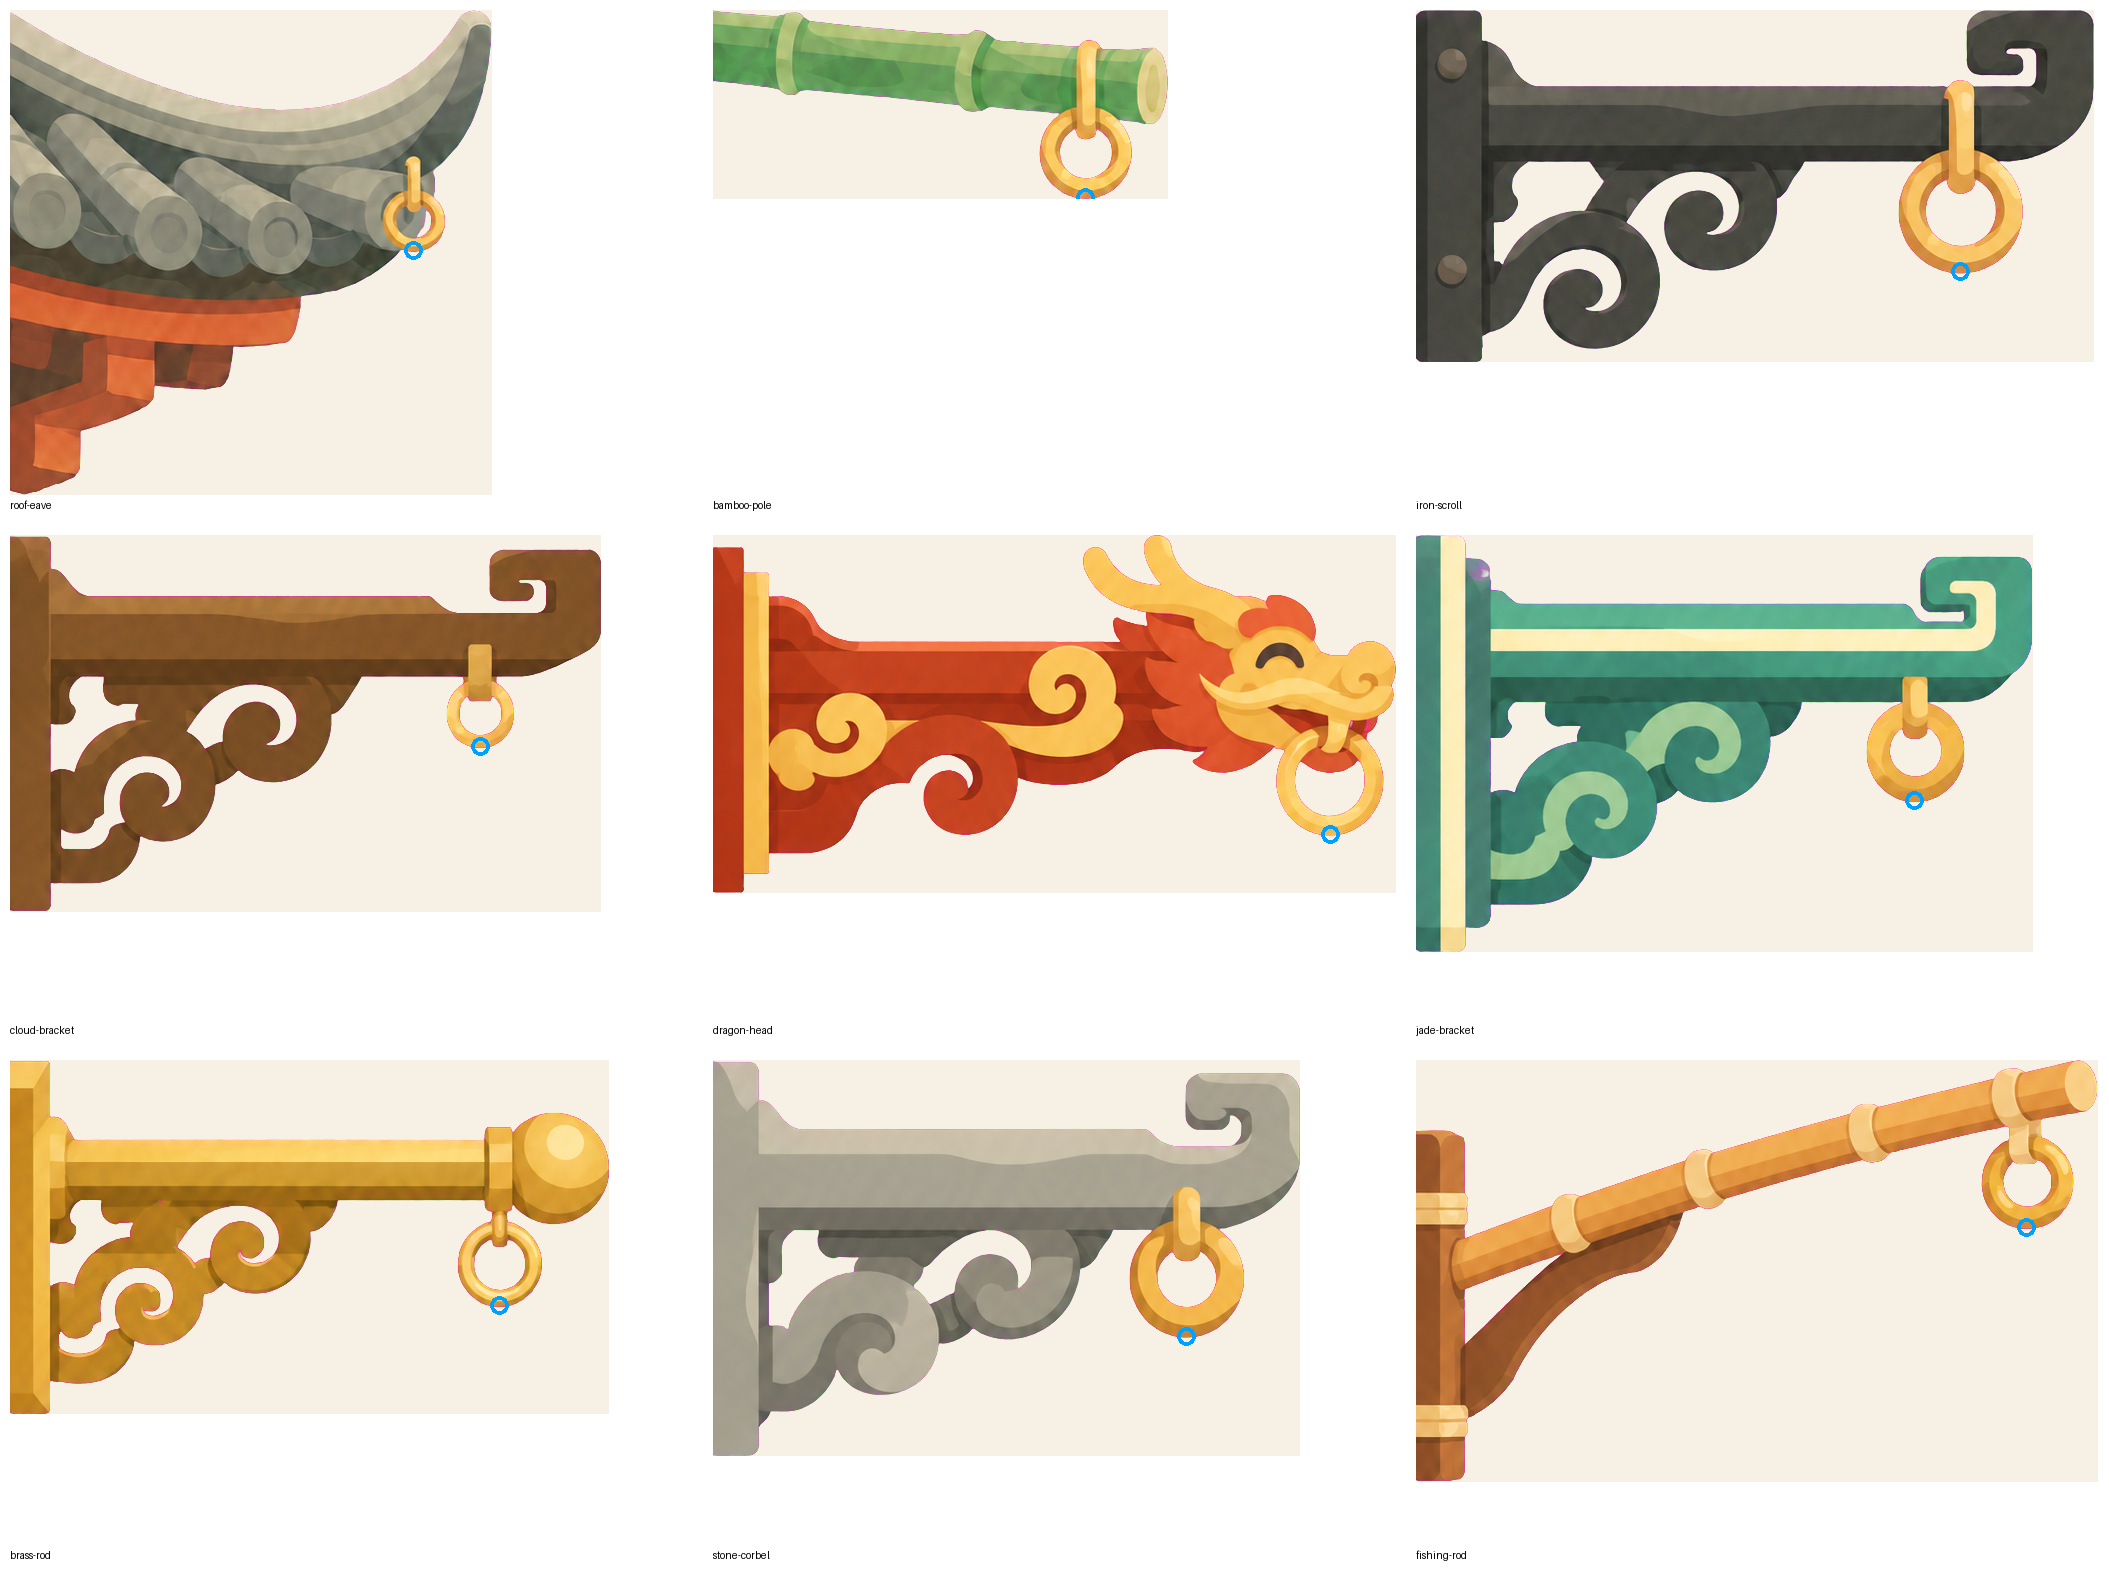
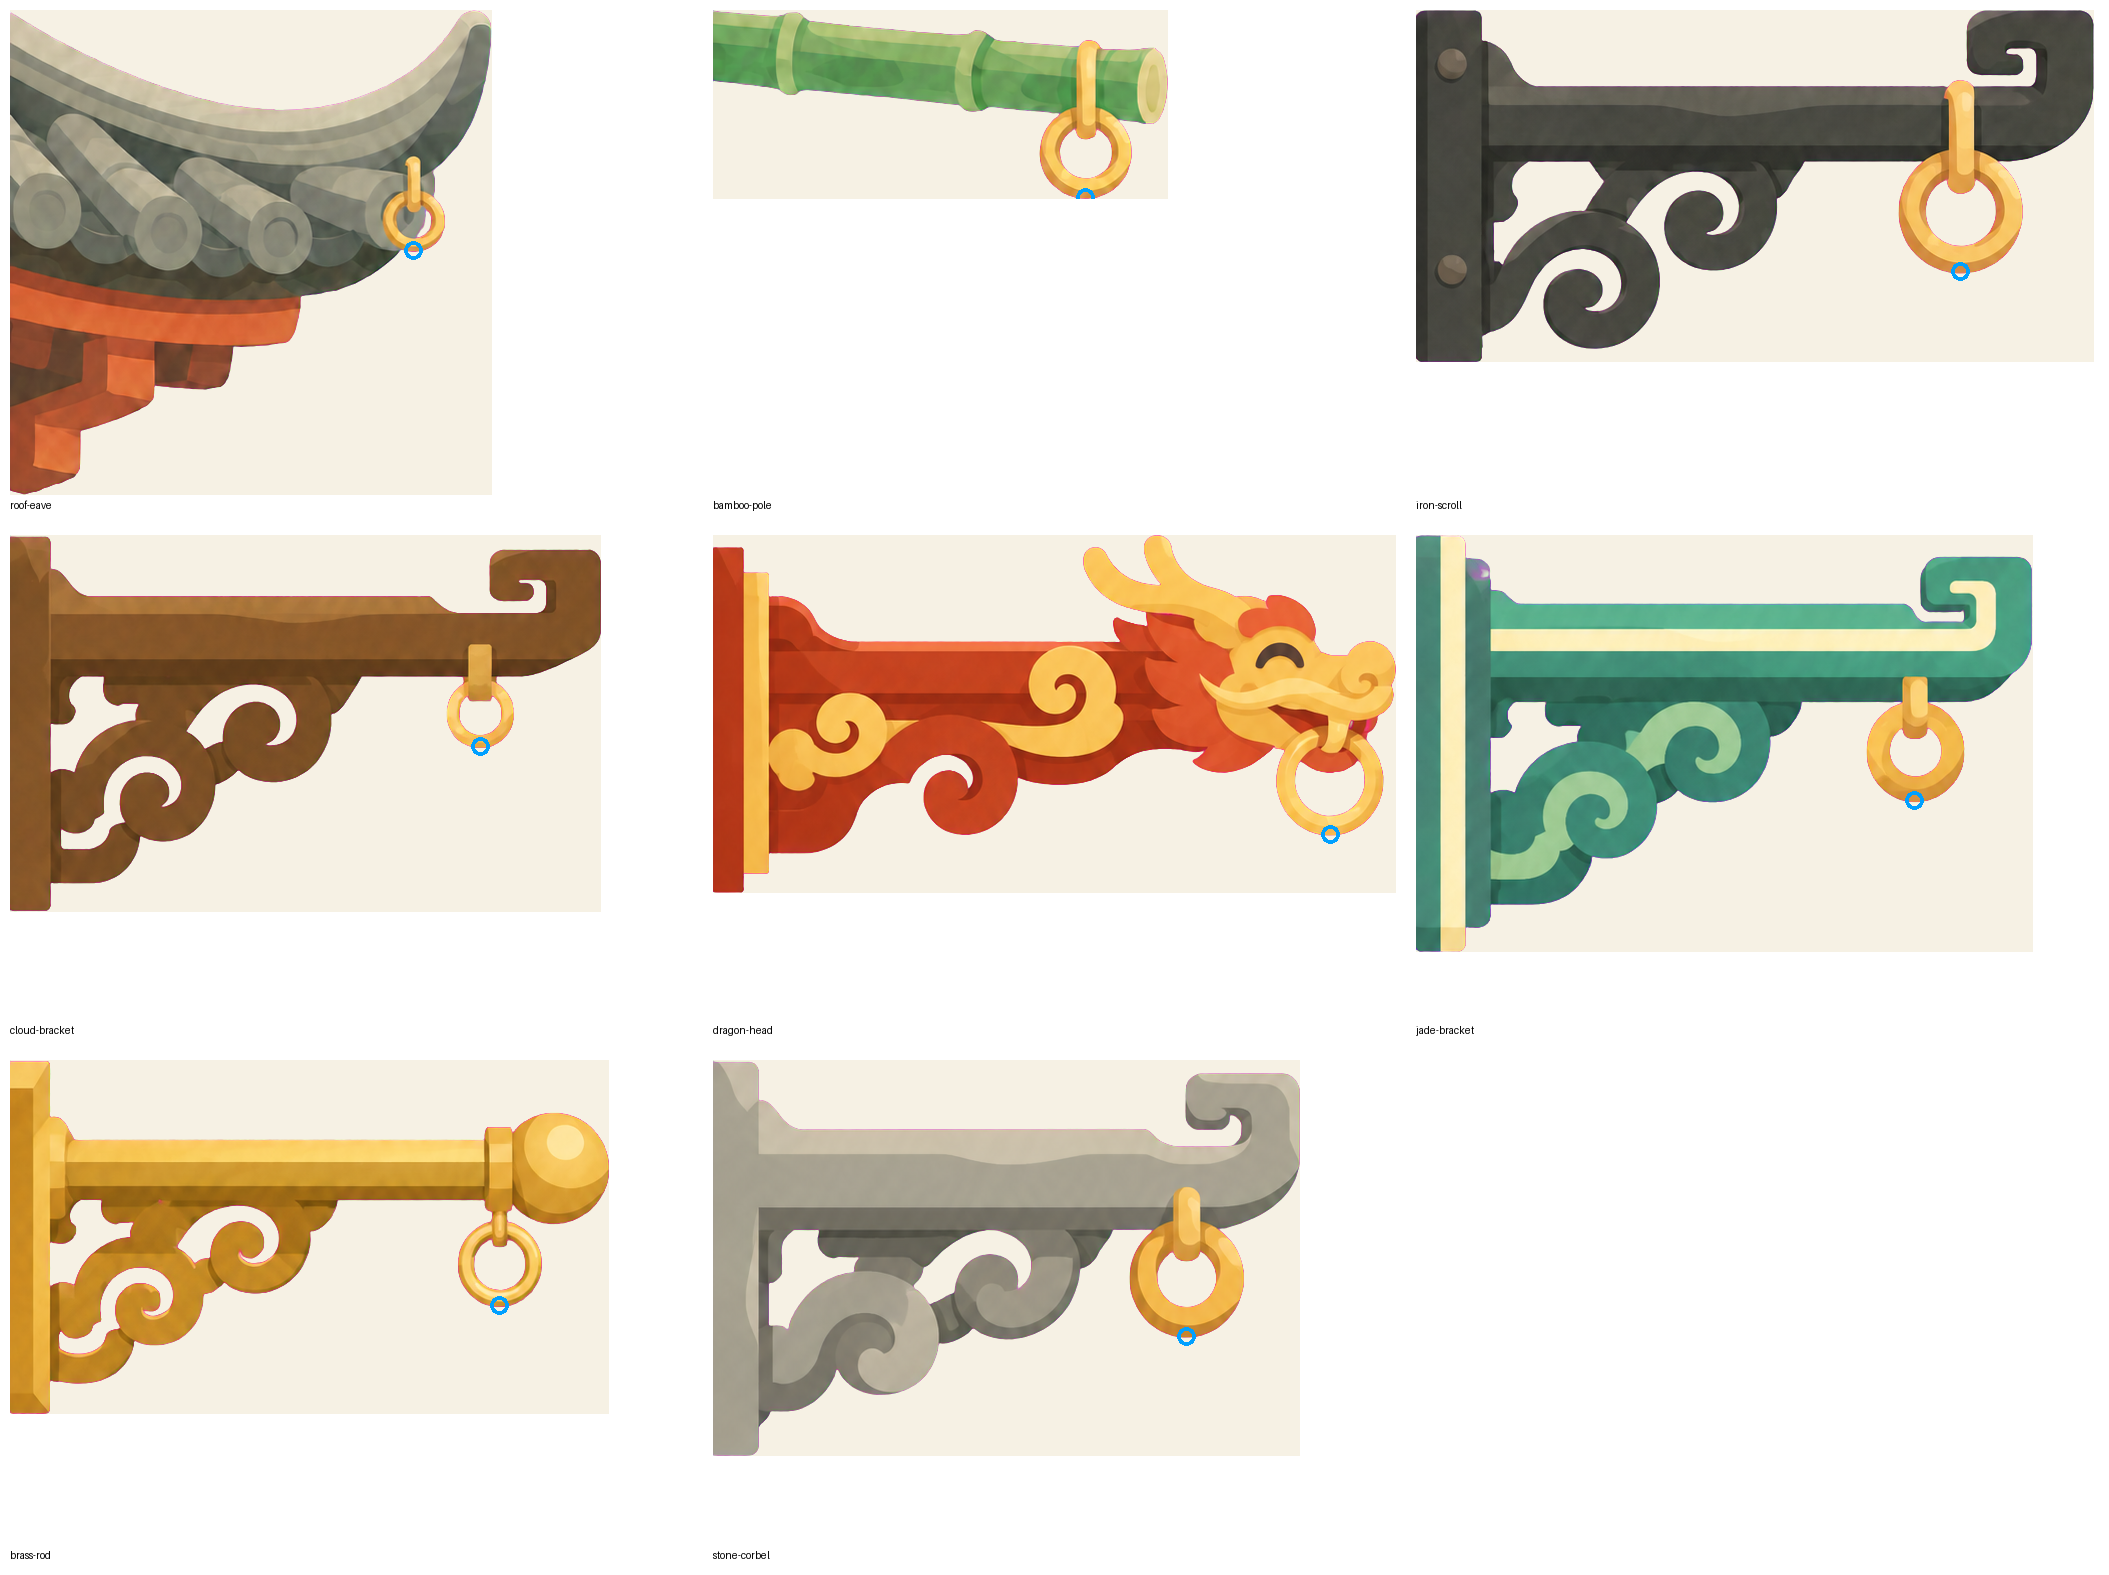
Fishing rod master dropped (owner); the straw hat and fishing basket hang from the bamboo pole; the owner's rope and size per piece

Changed region(s): [[0.6472, 0.6533, 1.0, 0.9644]]

diff --git a/tools/art/add_path4.py b/tools/art/add_path4.py
@@ -32,11 +32,11 @@ OBJECTS = [
     ("Bronze bell", "one small round bronze temple bell with a little striker under it", "roof-eave"),
     ("Brass gong", "a small round brass gong with a raised boss in the middle", "dragon-head"),
     ("Steamer stack", "a stack of three round bamboo steamer baskets with a domed lid, tied up with the cord", "bamboo-pole"),
-    ("Straw hat", "a round woven conical straw hat hanging by its chin cord", "fishing-rod"),
+    ("Straw hat", "a round woven conical straw hat hanging by its chin cord", "bamboo-pole"),
     ("Birdhouse", "a little wooden birdhouse with a curved Chinese-style roof and a round door", "cloud-bracket"),
     ("Rabbit lantern", "a white and coral paper rabbit lantern, the Mid-Autumn kind, with a short tassel", "jade-bracket"),
     ("Butterfly kite", "a butterfly-shaped paper kite in coral, gold and jade, hung by its string, two short tail streamers", "bamboo-pole"),
-    ("Fishing basket", "a small woven bamboo fishing basket with a lid", "fishing-rod"),
+    ("Fishing basket", "a small woven bamboo fishing basket with a lid", "bamboo-pole"),
     ("Lucky coins", "three round gold coins with square holes threaded on the cord in a short vertical line, a red tassel under them", "brass-rod"),
     ("Clay teapot", "a round brown clay teapot hanging by its handle", "iron-scroll"),
     ("Cricket cage", "a small round woven bamboo cricket cage with a little door", "stone-corbel"),

diff --git a/tools/art/masters.py b/tools/art/masters.py
@@ -27,11 +27,10 @@ MASTERS = {
     "jade-bracket": "mount-jade-bracket-take2",
     "brass-rod": "mount-brass-rod",
     "stone-corbel": "mount-stone-corbel",
-    "fishing-rod": "mount-fishing-rod-take2",
 }
 # until the ring swaps are made, the pictures they're made from
 FALLBACK = {"mount-roof-eave-ring": "mount-roof-eave-take2", "mount-bamboo-pole-ring": "mount-bamboo-pole"}
-TIE = {}   # master name -> (x, y) by hand, where the found one is wrong
+TIE = {"roof-eave": (403, 240)}   # master name -> (x, y) by hand, where the found one is wrong (the eave's orange woodwork reads as brass)
 
 
 def brass(a):
